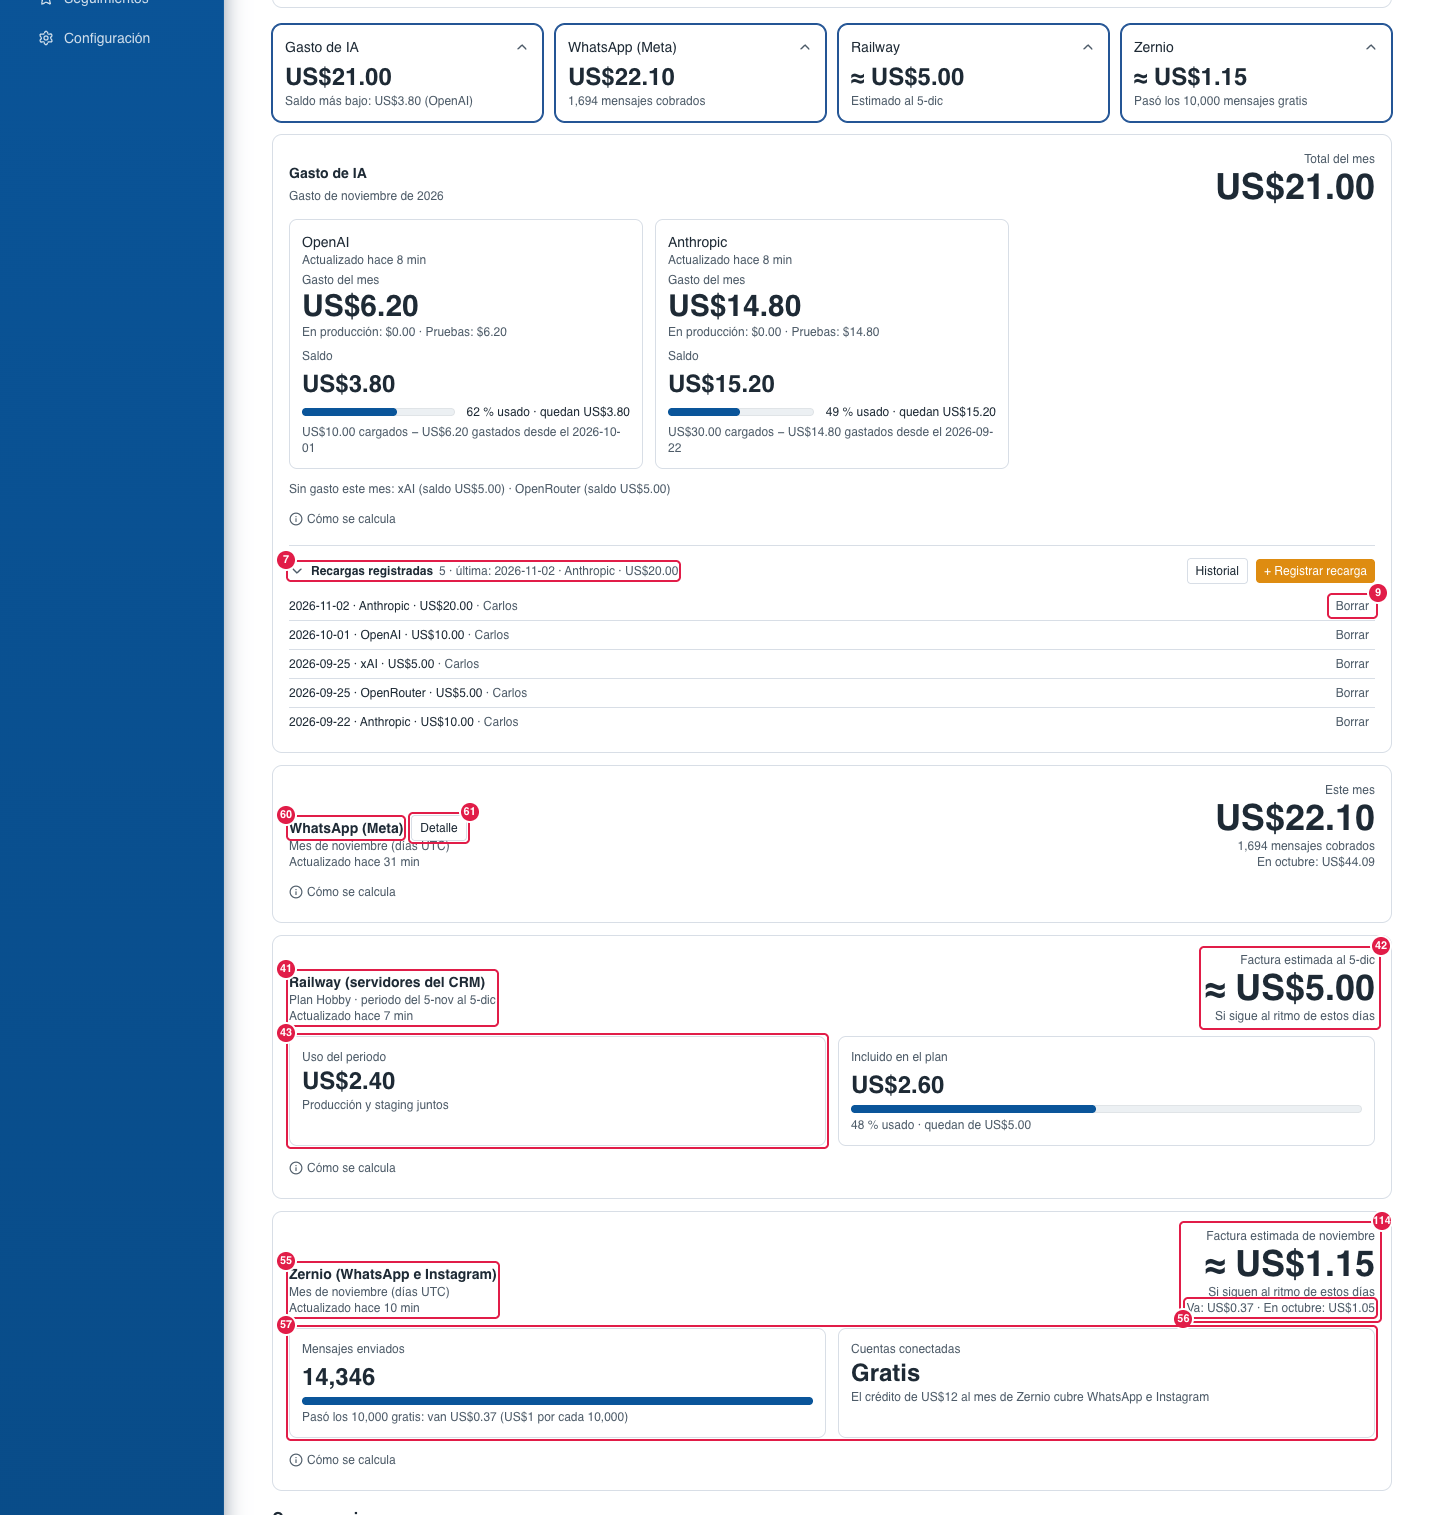
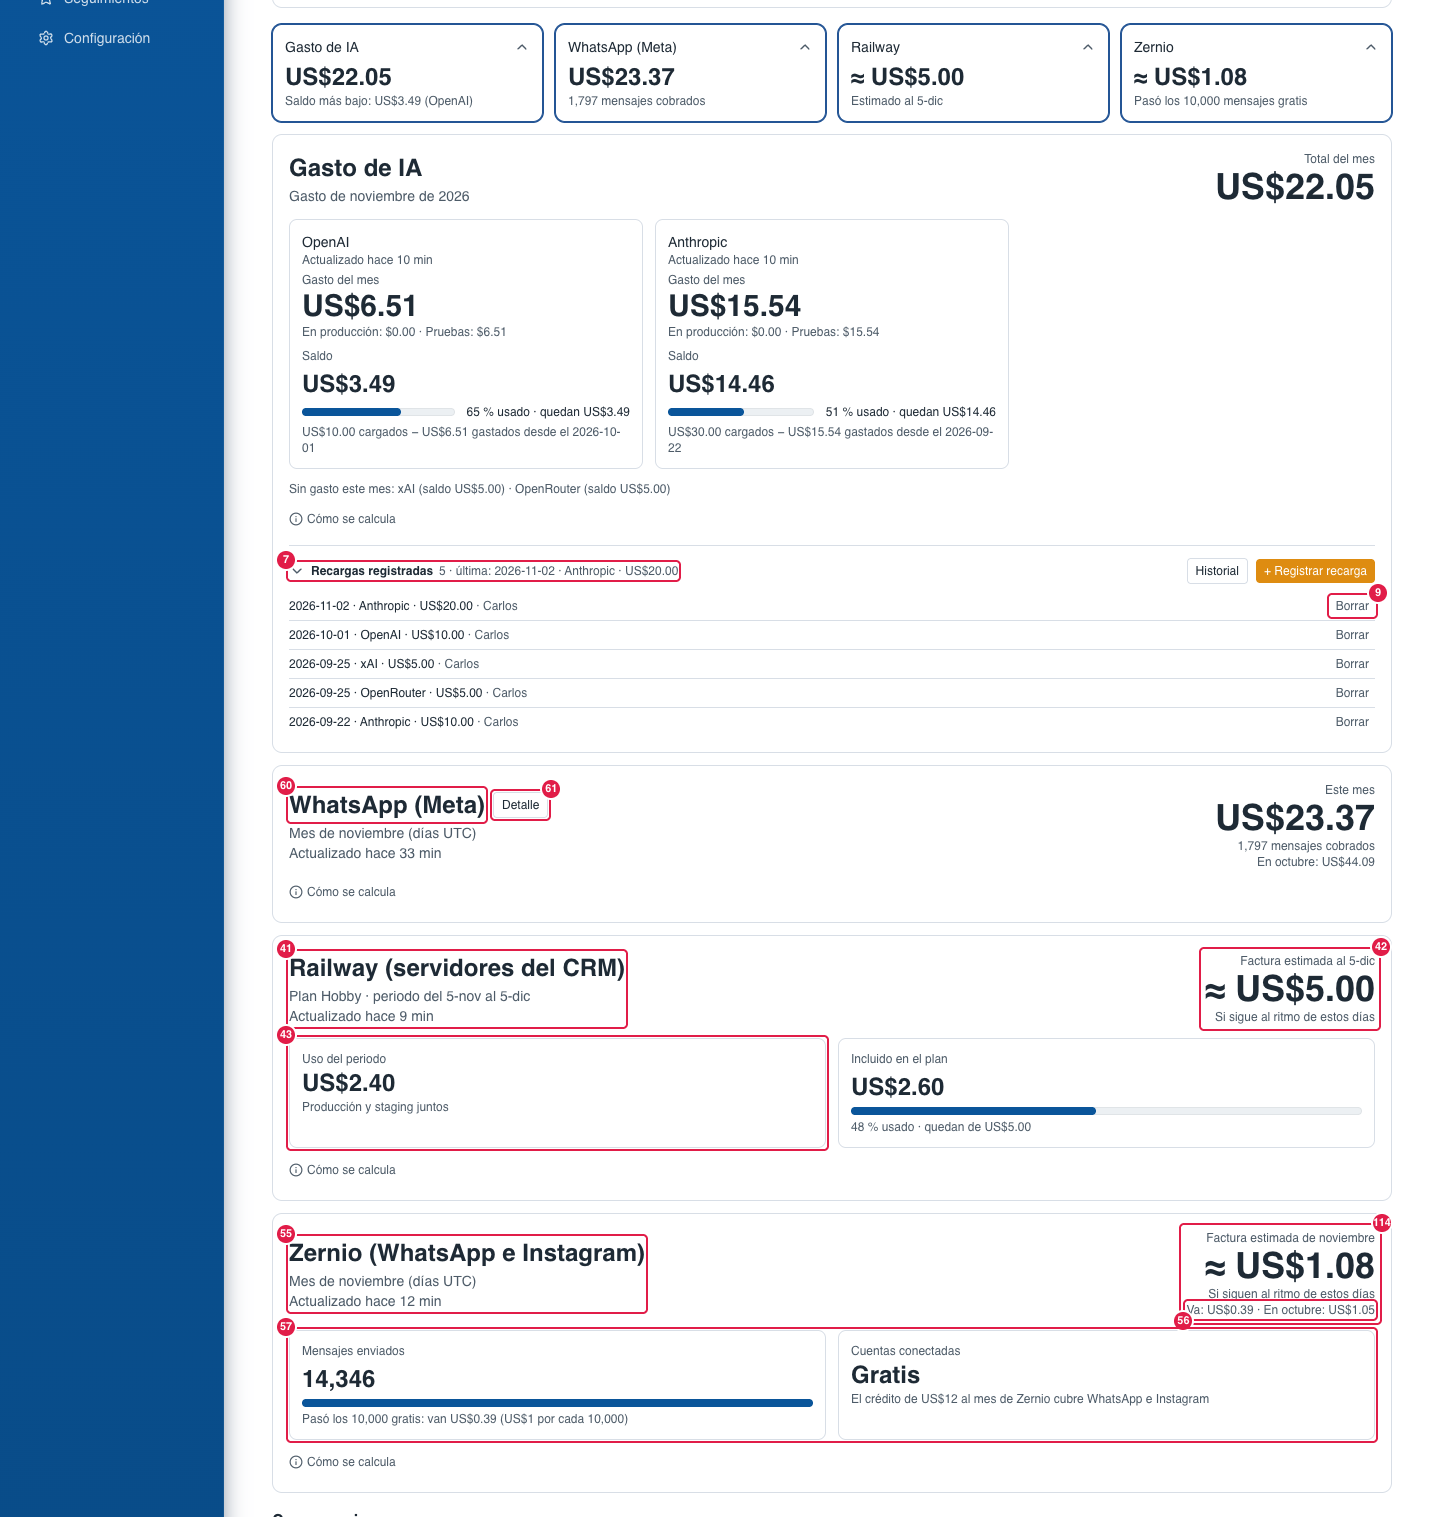
style(dashboard): encabezado más grande en las tarjetas de costos abiertas
Pedido del dueño (21-nov-2026): el título y sus dos líneas («Mes de noviembre (días UTC)», «Actualizado hace…») de
Gasto de IA, WhatsApp (Meta), Railway y Zernio quedaban chicos y pegados abajo, con espacio en blanco arriba junto a la
cifra grande. Ahora el título va en text-xl/2xl, las líneas en text-sm y el renglón centrado: llena ese espacio.
Capturas 01-dashboard y 01e-dashboard-costos-abiertos del mapa 3.1 rehechas.

diff --git a/app/(app)/inicio/_components/meta-whatsapp-card.tsx b/app/(app)/inicio/_components/meta-whatsapp-card.tsx
@@ -12,16 +12,16 @@ export function MetaWhatsappCard({ summary }: { summary: MetaWhatsappSummary }) 
   const s = summary;
   return (
     <div className="rounded-lg border bg-card p-4">
-      <div className="flex flex-wrap items-end justify-between gap-2">
+      <div className="flex flex-wrap items-center justify-between gap-2">
         <div>
           <div className="flex items-center gap-2">
-            <h2 className="text-sm font-semibold">WhatsApp (Meta)</h2>
+            <h2 className="text-xl font-semibold sm:text-2xl">WhatsApp (Meta)</h2>
             <Link href="/inicio/whatsapp" className="-my-1 rounded border px-2 py-1 text-xs font-medium text-foreground hover:bg-muted">
               Detalle
             </Link>
           </div>
-          <span className="block text-xs text-muted-foreground">Mes de {s.monthLabel} (días UTC)</span>
-          <span className={`block text-xs ${fresh.tone === "orange" ? "text-brand-orange" : "text-muted-foreground"}`}>{fresh.text}</span>
+          <span className="mt-0.5 block text-sm text-muted-foreground">Mes de {s.monthLabel} (días UTC)</span>
+          <span className={`block text-sm ${fresh.tone === "orange" ? "text-brand-orange" : "text-muted-foreground"}`}>{fresh.text}</span>
         </div>
         <div className="text-right">
           <p className="text-xs text-muted-foreground">Este mes</p>

diff --git a/app/(app)/inicio/_components/railway-card.tsx b/app/(app)/inicio/_components/railway-card.tsx
@@ -14,13 +14,13 @@ export function RailwayCard({ summary }: { summary: RailwaySummary }) {
   const orange = s.includedTone === "orange";
   return (
     <div className="rounded-lg border bg-card p-4">
-      <div className="flex flex-wrap items-end justify-between gap-2">
+      <div className="flex flex-wrap items-center justify-between gap-2">
         <div>
-          <h2 className="text-sm font-semibold">Railway (servidores del CRM)</h2>
+          <h2 className="text-xl font-semibold sm:text-2xl">Railway (servidores del CRM)</h2>
           {(s.planLabel || period) && (
-            <span className="block text-xs text-muted-foreground">{[s.planLabel && `Plan ${s.planLabel}`, period].filter(Boolean).join(" · ")}</span>
+            <span className="mt-0.5 block text-sm text-muted-foreground">{[s.planLabel && `Plan ${s.planLabel}`, period].filter(Boolean).join(" · ")}</span>
           )}
-          <span className={`block text-xs ${fresh.tone === "orange" ? "text-brand-orange" : "text-muted-foreground"}`}>{fresh.text}</span>
+          <span className={`block text-sm ${fresh.tone === "orange" ? "text-brand-orange" : "text-muted-foreground"}`}>{fresh.text}</span>
         </div>
         <div className="text-right">
           <p className="text-xs text-muted-foreground">Factura estimada{s.periodEndLabel ? ` al ${s.periodEndLabel}` : ""}</p>

diff --git a/app/(app)/inicio/_components/zernio-card.tsx b/app/(app)/inicio/_components/zernio-card.tsx
@@ -31,11 +31,11 @@ export function ZernioCard({ summary }: { summary: ZernioSummary }) {
     .join(" · ");
   return (
     <div className="rounded-lg border bg-card p-4">
-      <div className="flex flex-wrap items-end justify-between gap-2">
+      <div className="flex flex-wrap items-center justify-between gap-2">
         <div>
-          <h2 className="text-sm font-semibold">Zernio (WhatsApp e Instagram)</h2>
-          {s.monthLabel && <span className="block text-xs text-muted-foreground">Mes de {s.monthLabel} (días UTC)</span>}
-          <span className={`block text-xs ${fresh.tone === "orange" ? "text-brand-orange" : "text-muted-foreground"}`}>{fresh.text}</span>
+          <h2 className="text-xl font-semibold sm:text-2xl">Zernio (WhatsApp e Instagram)</h2>
+          {s.monthLabel && <span className="mt-0.5 block text-sm text-muted-foreground">Mes de {s.monthLabel} (días UTC)</span>}
+          <span className={`block text-sm ${fresh.tone === "orange" ? "text-brand-orange" : "text-muted-foreground"}`}>{fresh.text}</span>
         </div>
         <div className="text-right">
           <p className="text-xs text-muted-foreground">Factura estimada{s.monthLabel ? ` de ${s.monthLabel}` : ""}</p>

diff --git a/app/(app)/inicio/_components/ai-spend-card.tsx b/app/(app)/inicio/_components/ai-spend-card.tsx
@@ -49,10 +49,10 @@ export function AiSpendCard({ summary, canRegister }: { summary: AiSpendSummary;
   const idle = summary.providers.filter(isIdleProvider);
   return (
     <div className="rounded-lg border bg-card p-4">
-      <div className="flex flex-wrap items-end justify-between gap-2">
+      <div className="flex flex-wrap items-center justify-between gap-2">
         <div>
-          <h2 className="text-sm font-semibold">Gasto de IA</h2>
-          <span className="text-xs text-muted-foreground">Gasto de {summary.monthLabel}</span>
+          <h2 className="text-xl font-semibold sm:text-2xl">Gasto de IA</h2>
+          <span className="mt-0.5 block text-sm text-muted-foreground">Gasto de {summary.monthLabel}</span>
         </div>
         <div className="text-right">
           <p className="text-xs text-muted-foreground">Total del mes</p>
